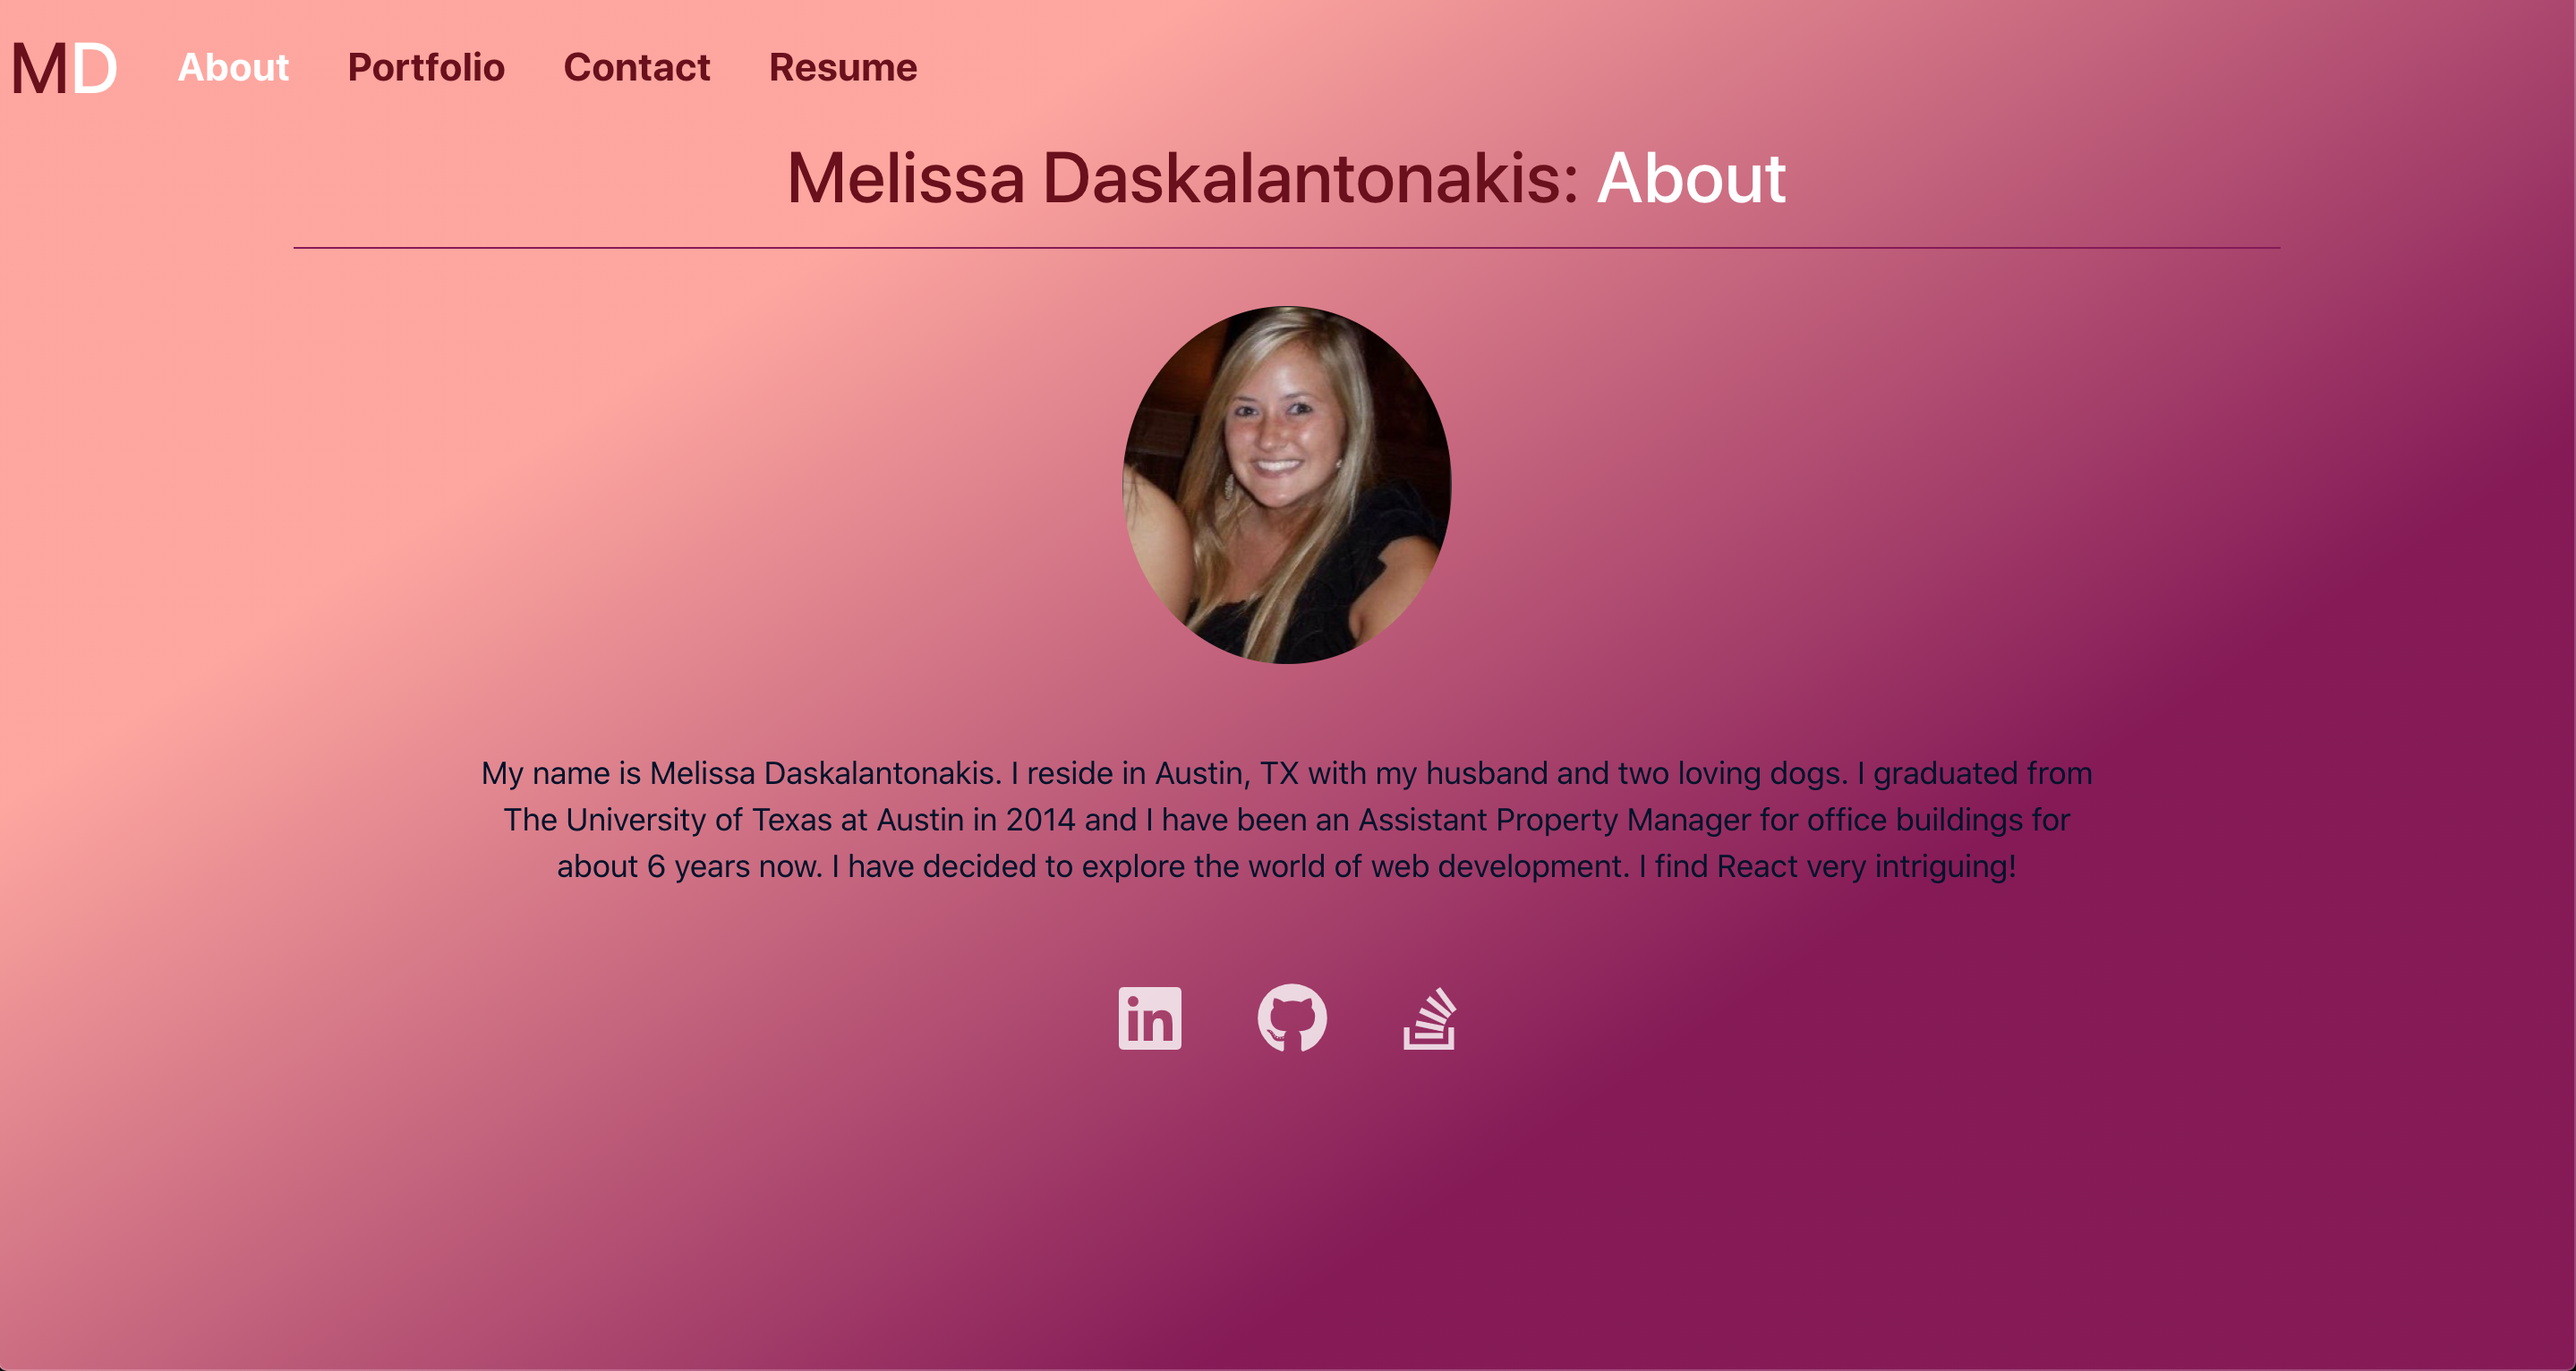
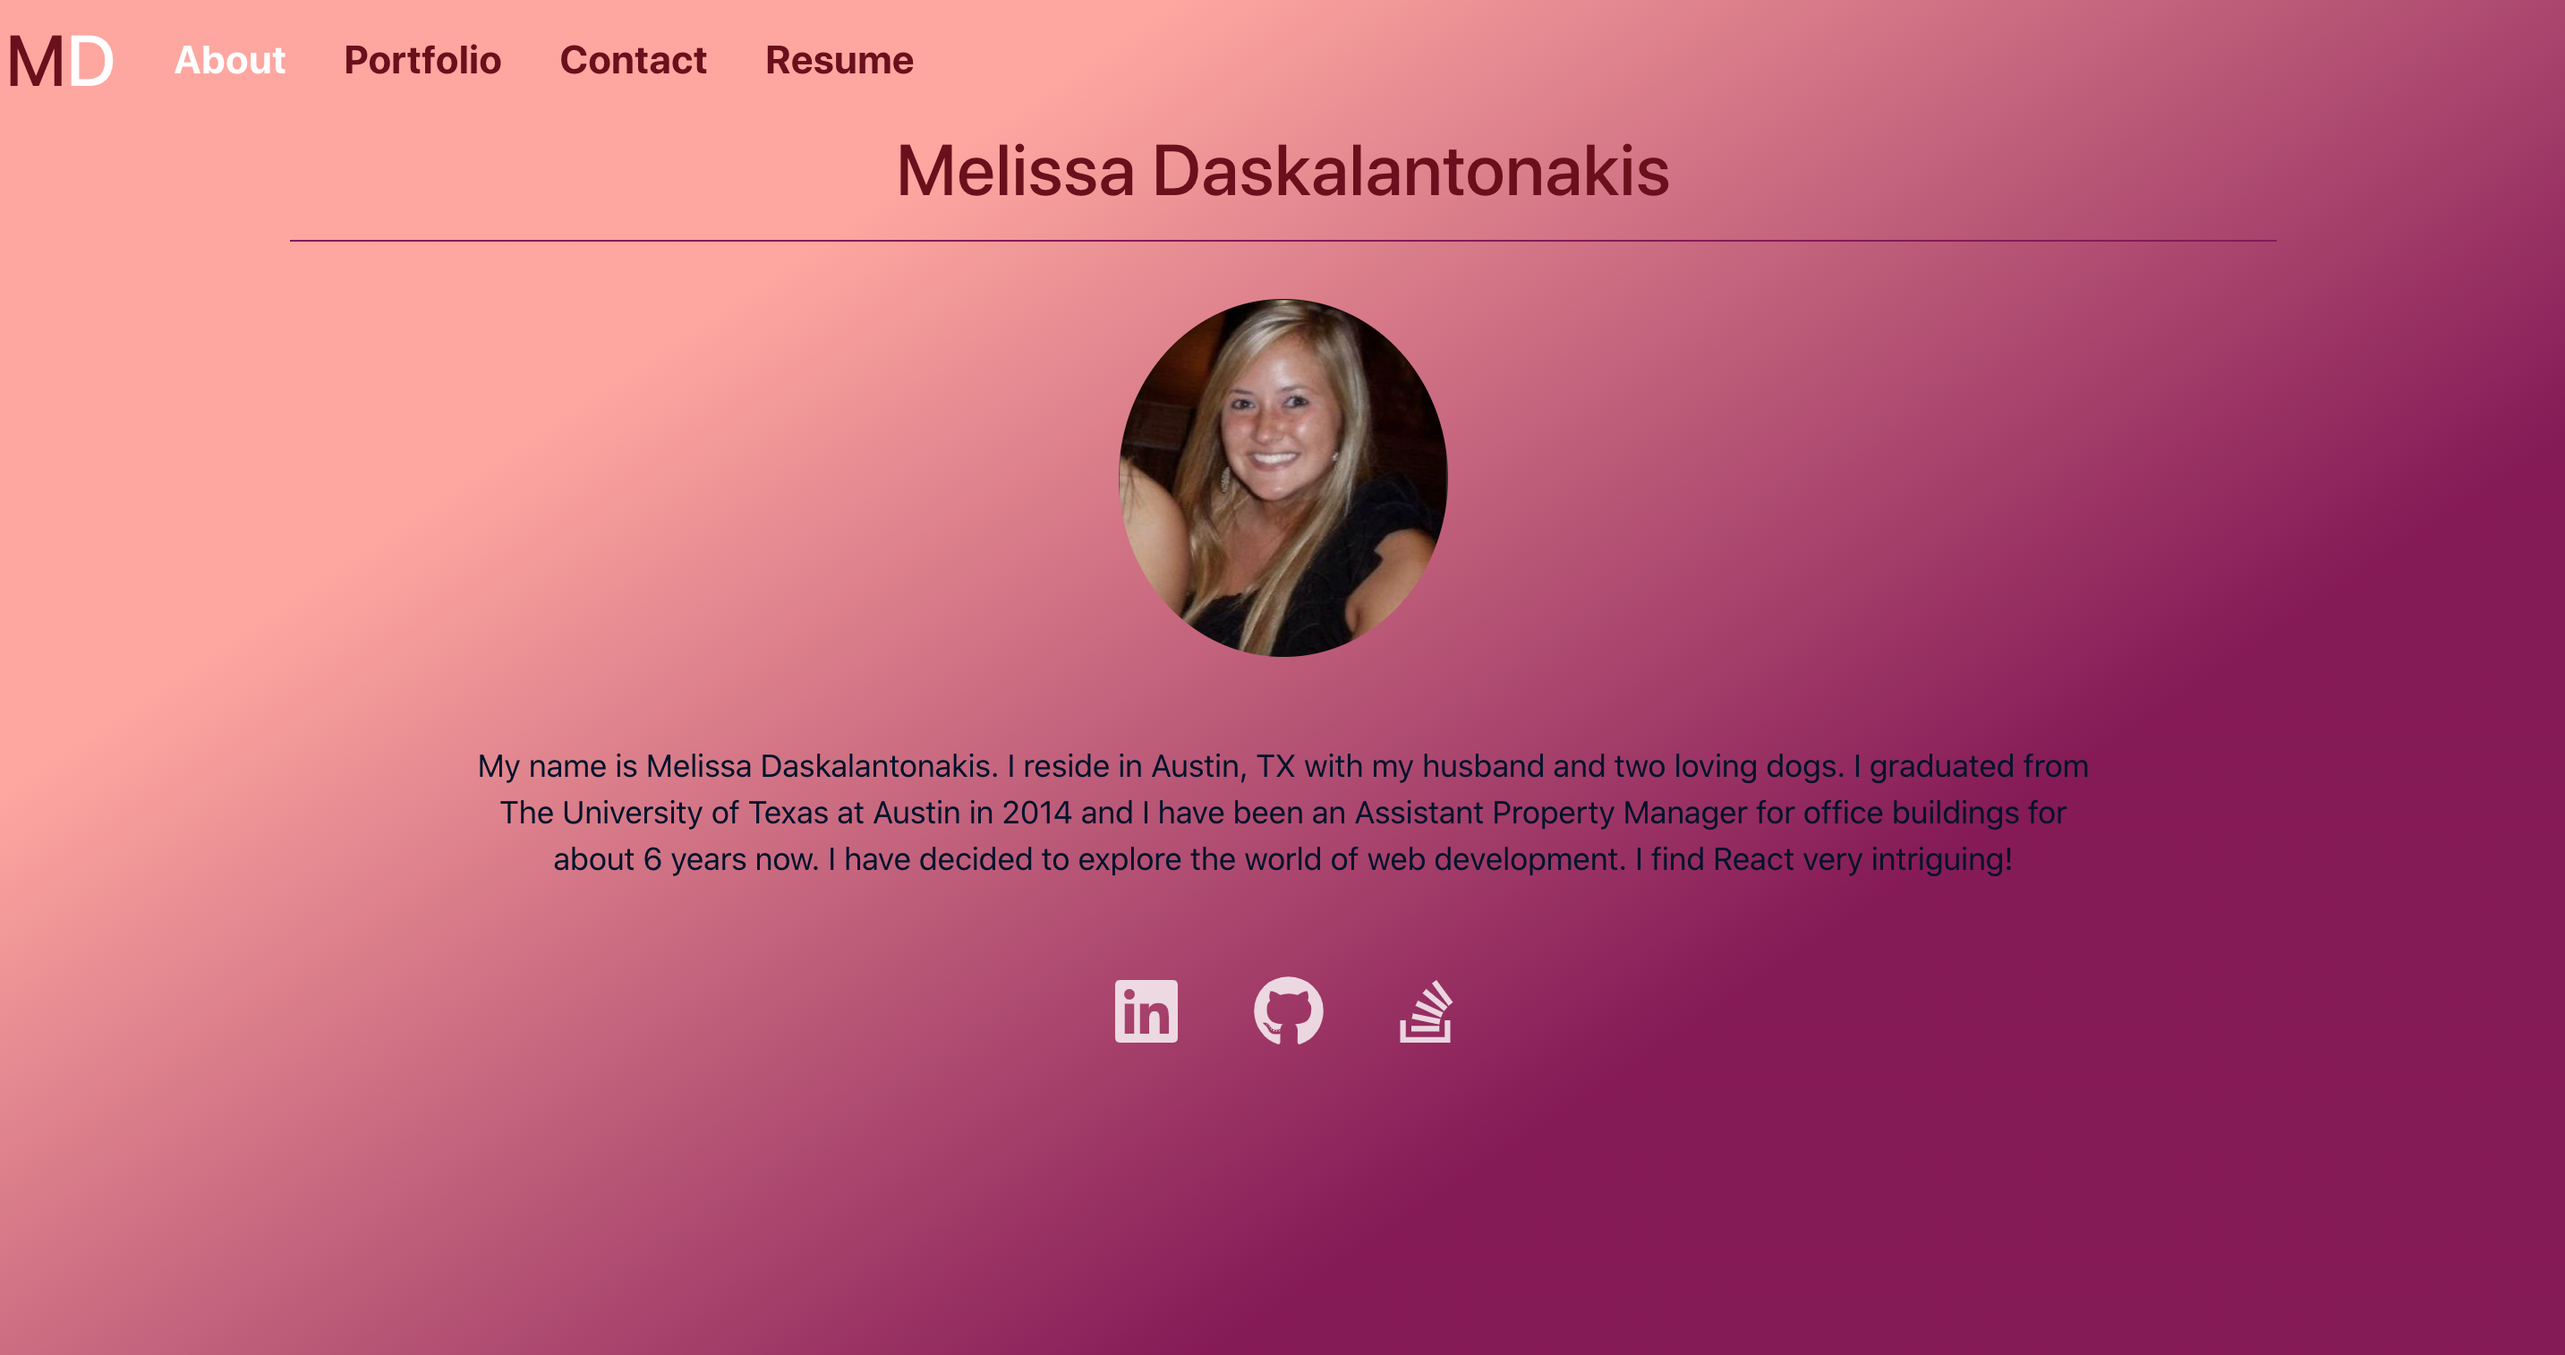
fix titles

diff --git a/src/components/Resume/index.js b/src/components/Resume/index.js
@@ -19,7 +19,7 @@ class Resume extends Component {
     render() {
         return(
             <section className="section-title container">
-                <h1>Melissa Daskalantonakis: <span>Resume</span></h1>
+                <h1>My Resume</h1>
                 <hr></hr>
                 <div className="justify-content-center mt-5" id="resume">
                     <h2 className="font-weight-bold mb-4">Download my resume</h2>

diff --git a/src/components/About/index.js b/src/components/About/index.js
@@ -5,7 +5,7 @@ class About extends Component {
     render() {
         return (
             <section className="section-title container">
-                <h1>Melissa Daskalantonakis: <span>About</span></h1>
+                <h1>Melissa Daskalantonakis</h1>
                 <hr></hr>
                 <div className="row justify-content-center">
                     <div className="col-10 section-content">

diff --git a/src/components/Portfolio/index.js b/src/components/Portfolio/index.js
@@ -9,7 +9,7 @@ class Portfolio extends Component {
         }
         return (
             <section className="section-title">
-                <h1 >Melissa Daskalantonakis: <span>Portfolio</span></h1>
+                <h1 >Portfolio</h1>
                 <hr></hr>
                 <Project id="card-data">
                     {portfolio.map((project) => (

diff --git a/src/components/Contact/index.js b/src/components/Contact/index.js
@@ -5,7 +5,7 @@ class ContactForm extends Component {
     render() {
         return (
             <section className="section-title container"> 
-            <h1>Melissa Daskalantonakis: <span>Contact Info</span></h1>
+            <h1>Contact Me</h1>
             <hr></hr>
             <br />
                 <div className="row justify-content-center">
